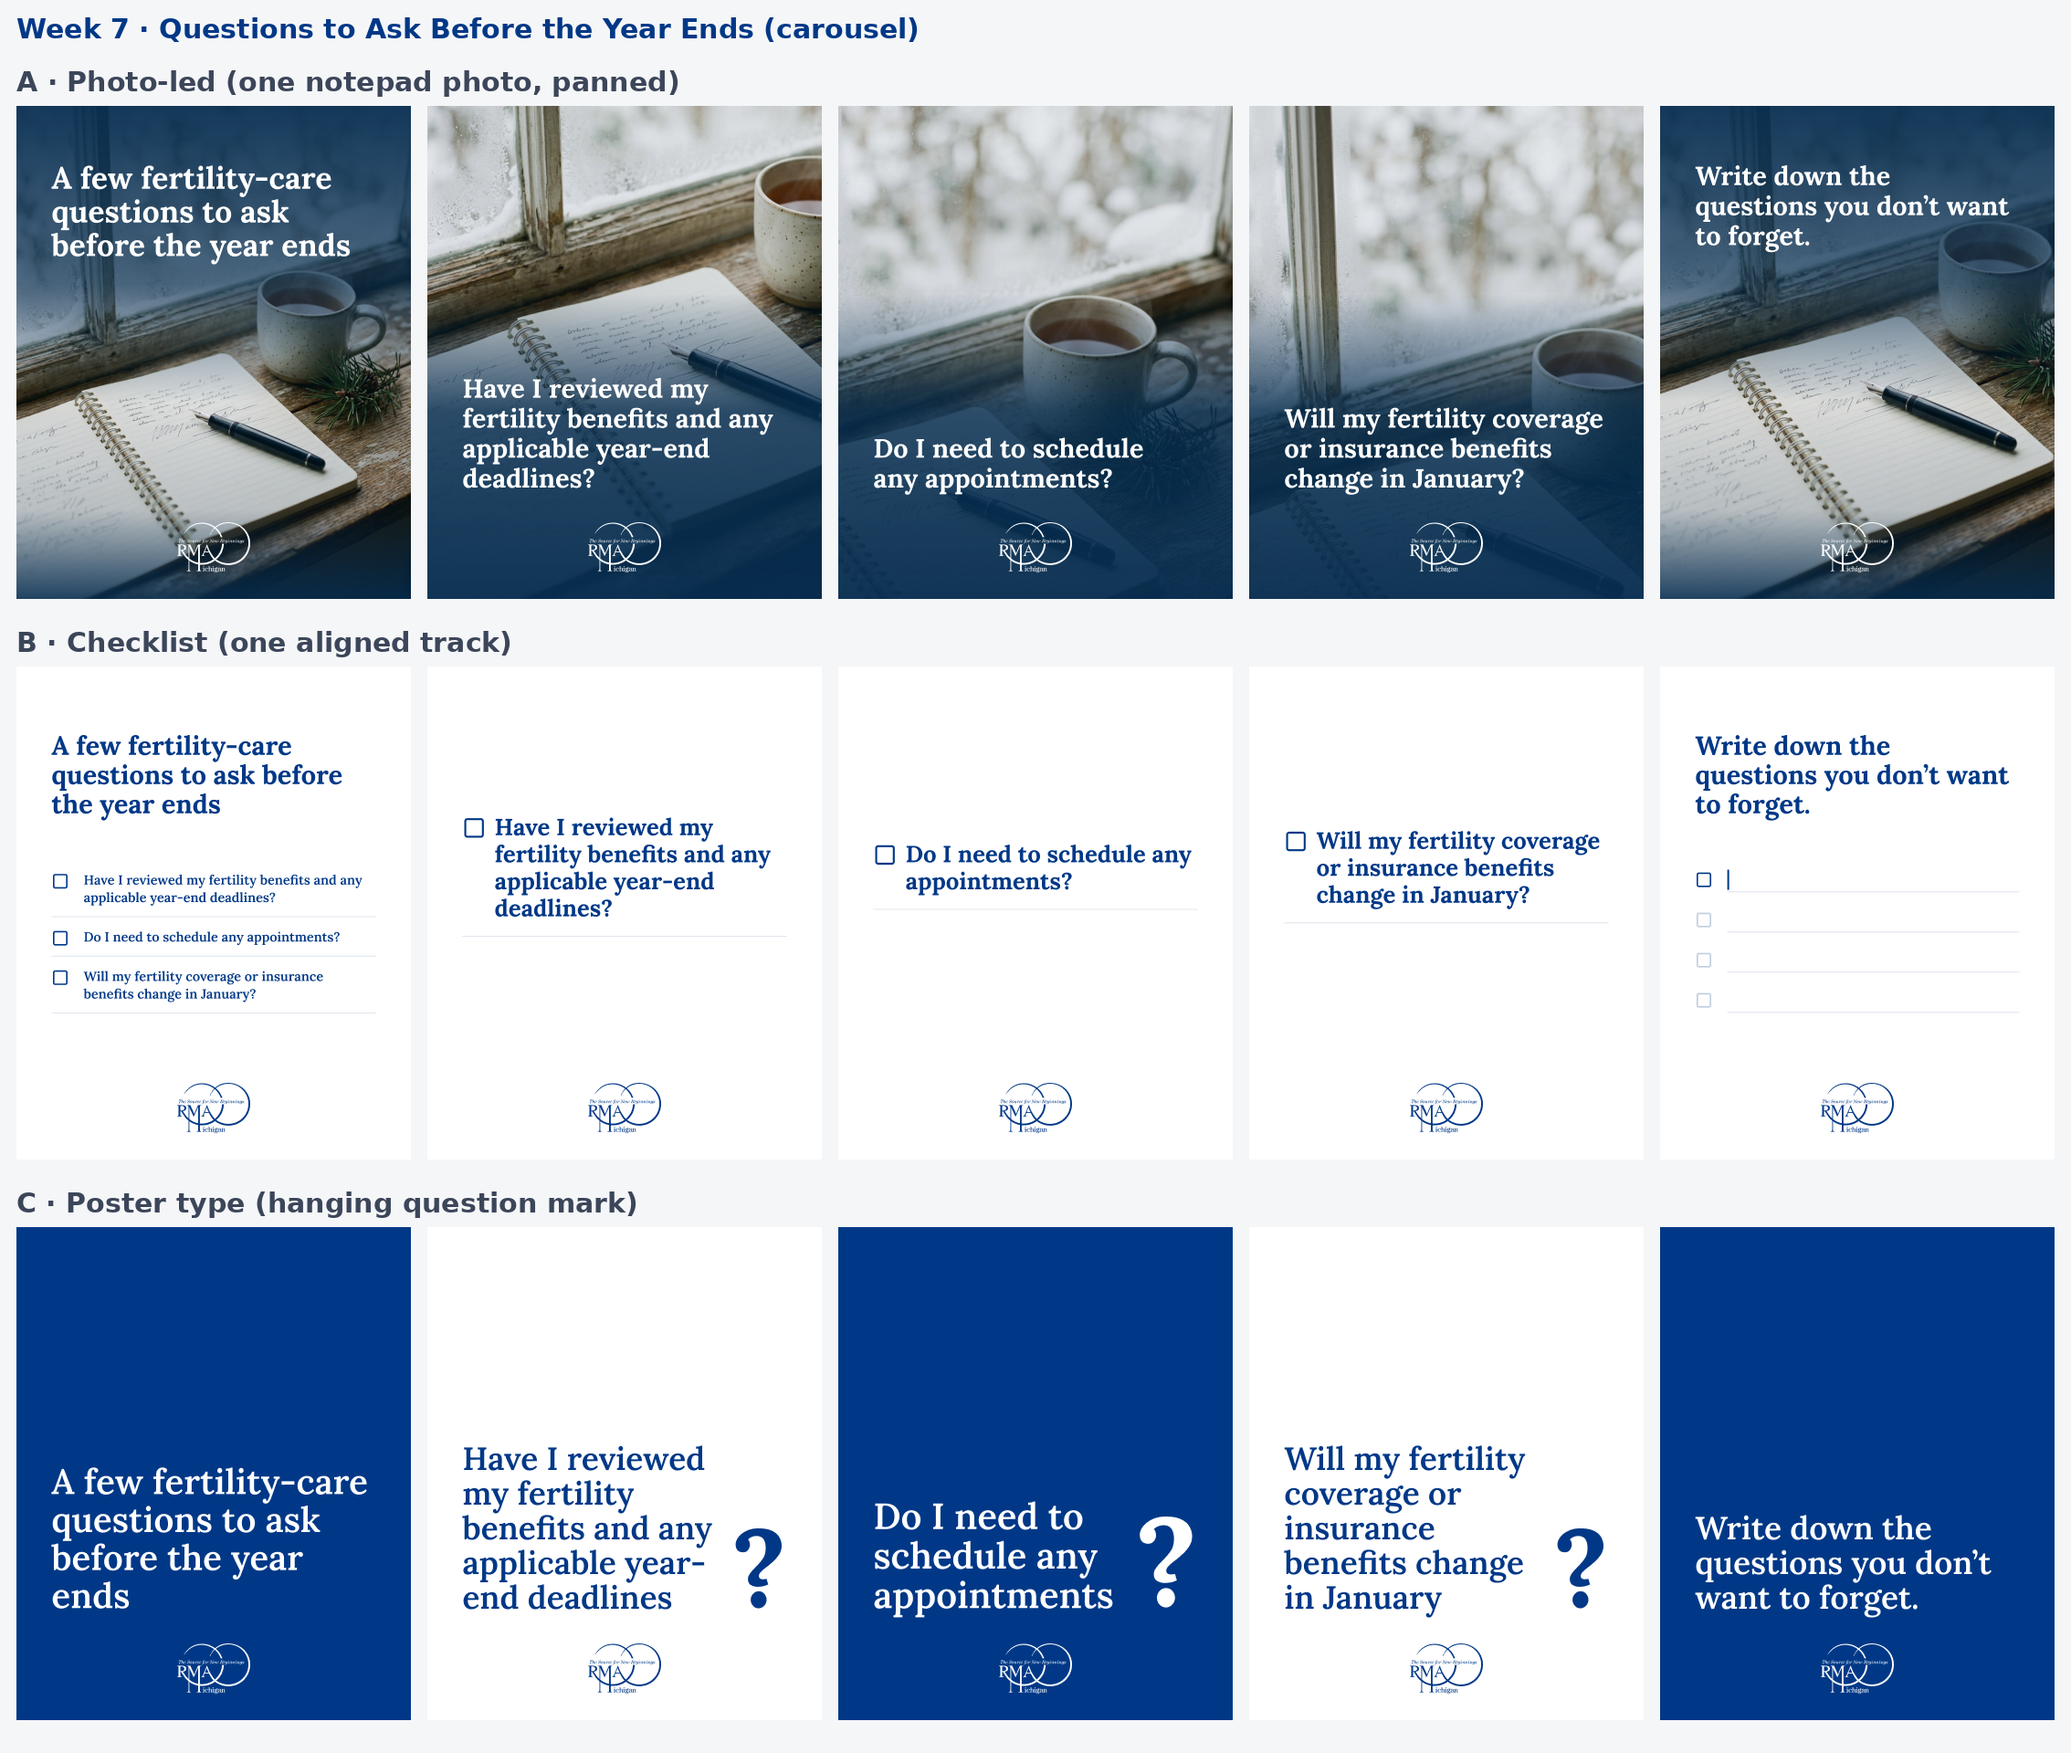
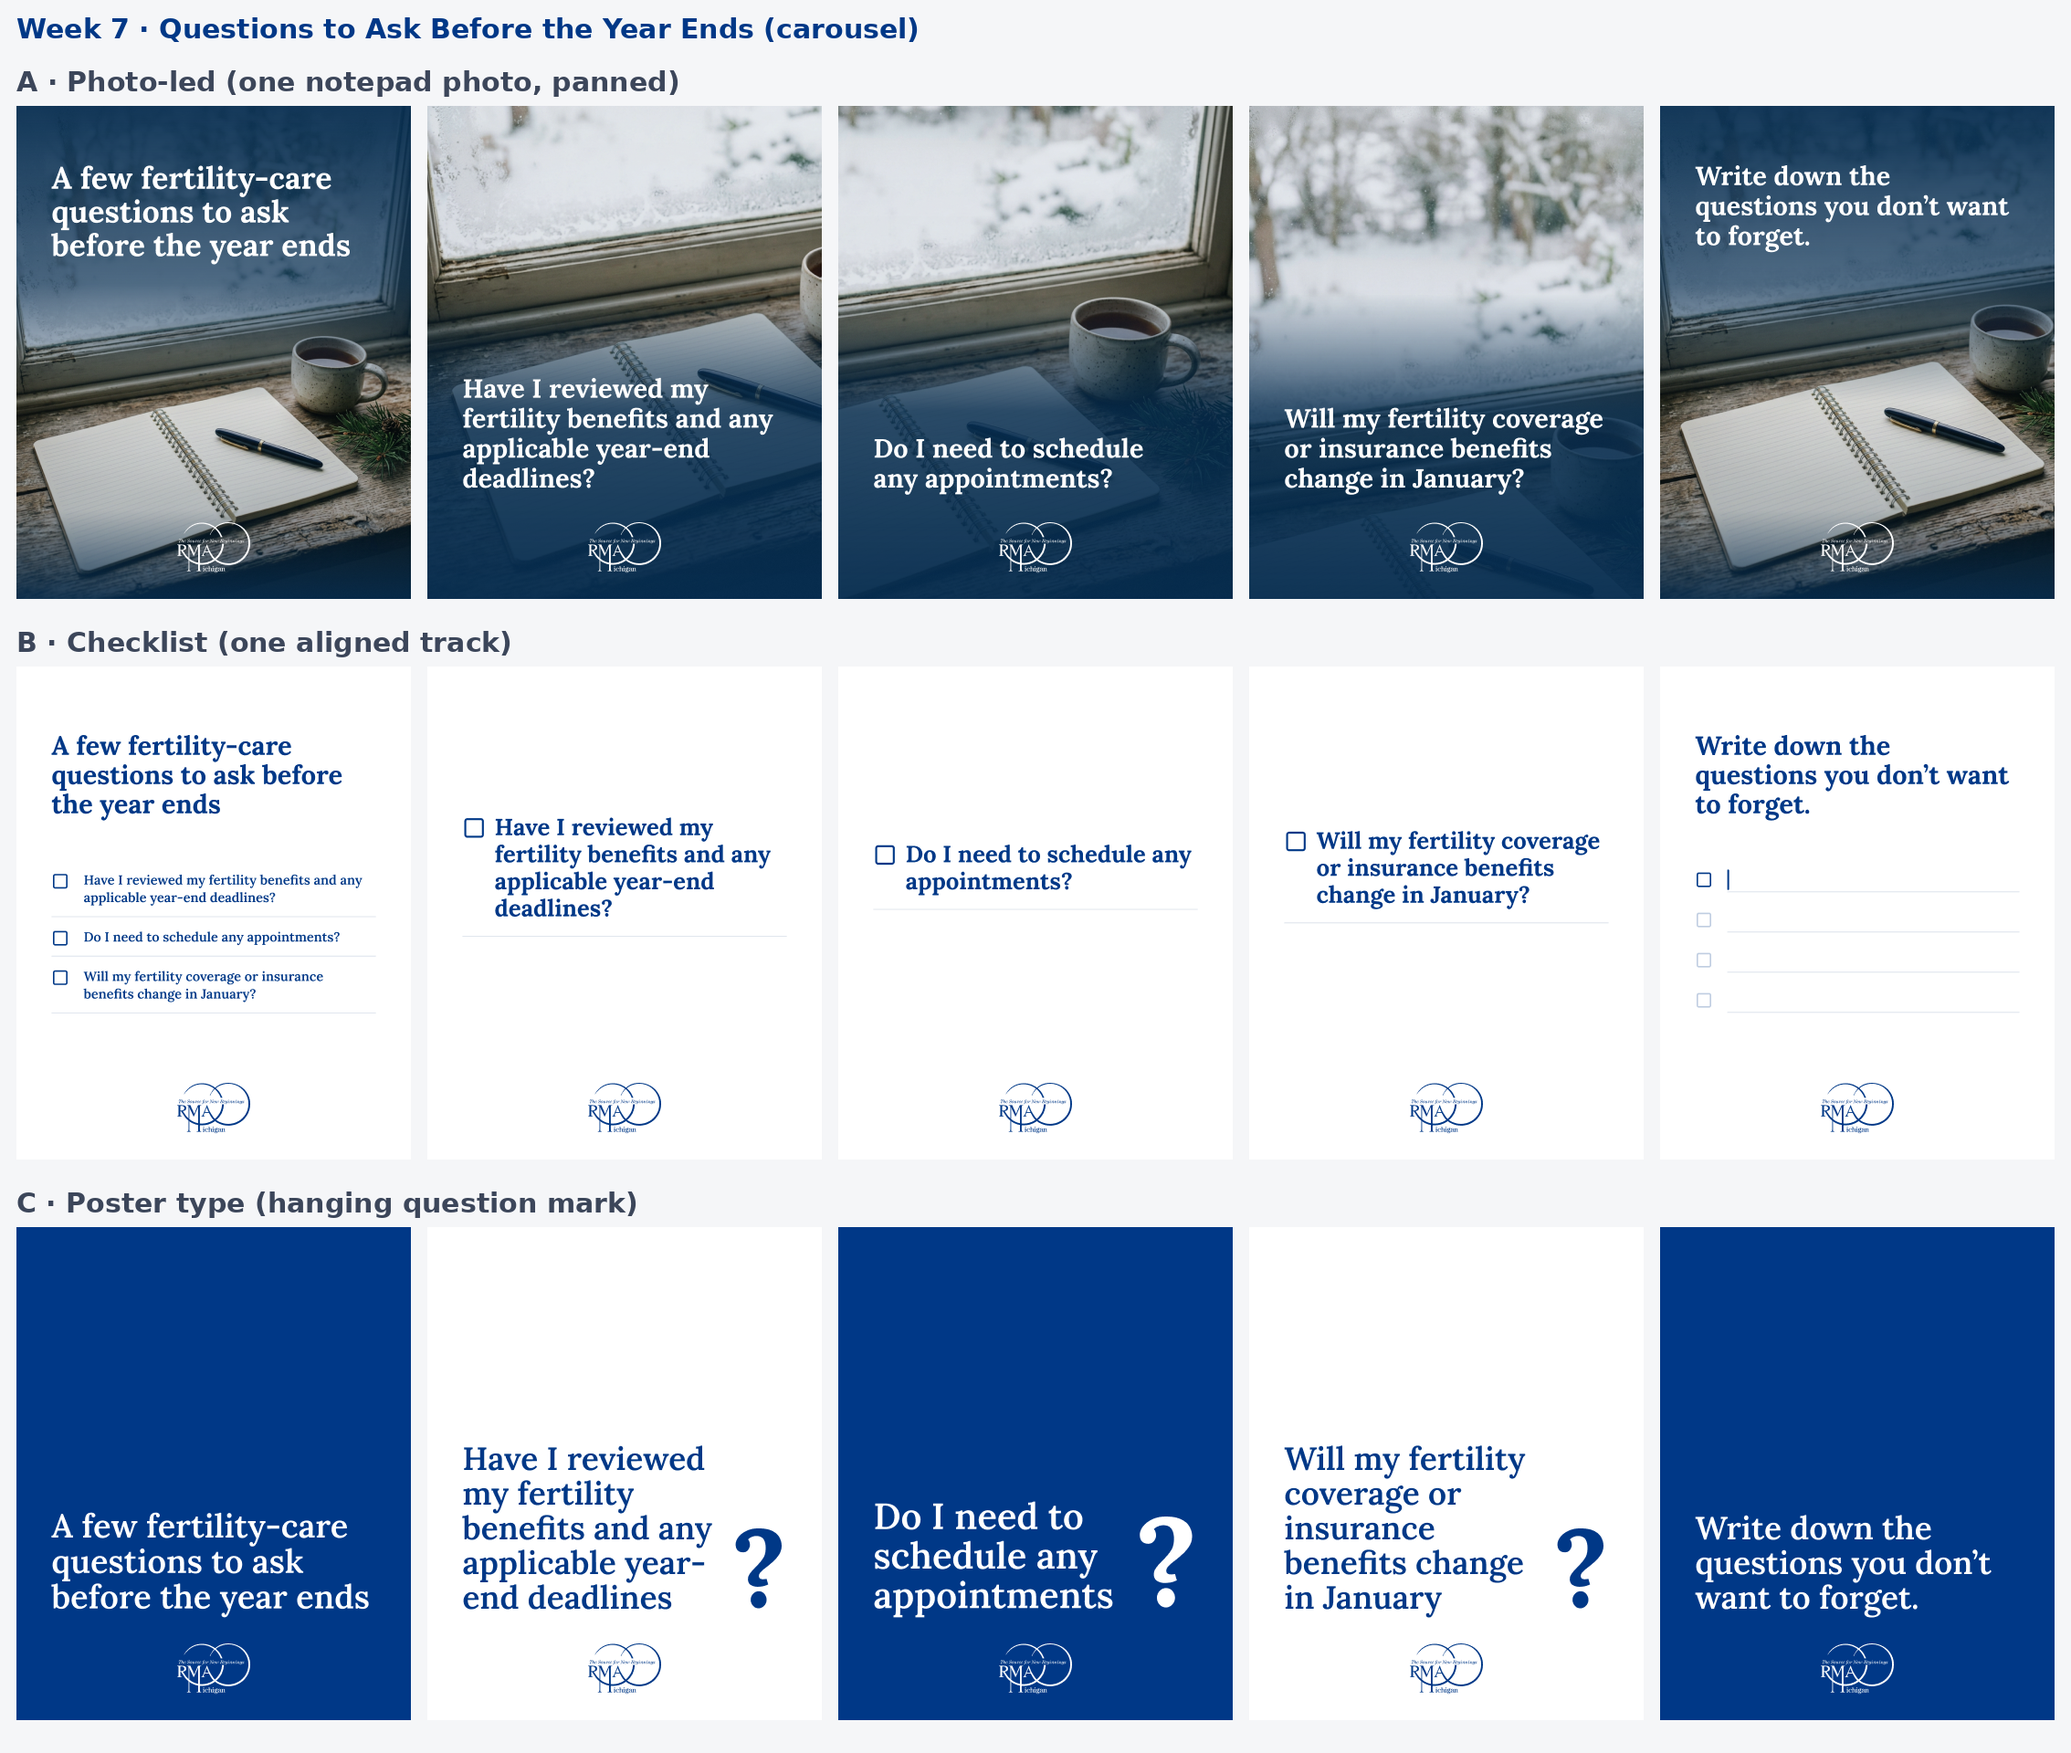
December batch: final review fixes and refreshed previews
Myth B strikes the whole myth; calendar dots and ring ornaments removed
(snowflakes instead); notepad photo regenerated without pseudo-handwriting;
Taylor S. crops matched to colleagues; placeholder hours fully bracketed;
New Year calendar inside the bottom line; added-copy and team-title flags.

Claude-Session: https://claude.ai/code/session_016yKrfT8RQFRJPW8Btr4Q9U

Changed region(s): [[0.0, 0.0625, 1.0, 0.3438], [0.0309, 0.8438, 0.1852, 0.9375], [0.5247, 0.25, 0.5556, 0.2812]]

diff --git a/rma-michigan-social/handoff-dec-batch.md b/rma-michigan-social/handoff-dec-batch.md
@@ -71,27 +71,27 @@ Each version was checked separately on its render:
 | Ask · B | Components: consistent card, distinguished by material. Holds. | The card header continues the November series (it is the note's own header, not an eyebrow). The chips are 5 items, one over the 4-item chunking guide. | No change. The chips are flagged below. |
 | Ask · C | Contrast and single focus hold. | The added series label was an eyebrow. | Label removed. The question leads and "No." dominates. |
 | **Week 7 (checked before building, then on the render)** | | | |
-| Questions · A | Above the fold: the slides should feel continuous, not like separate blocks. | Holds. Text sits on the dark part of each fade. | Built as one notepad photo (AI) panned across the carousel, so each slide continues the last. |
+| Questions · A | Above the fold: the slides should feel continuous, not like separate blocks. | Viewed at full size, the first notepad photo showed AI pseudo-handwriting (gibberish "writing"). | Regenerated with blank pages, then panned across the carousel so each slide continues the last. |
 | Questions · B | Grid: "great" means elements of different sizes share one left track. | Holds. One track for the box column and the text column; slide 5's cursor invites the reader to write. | Built on the shared track. Empty Lucide squares, no ticks, because these are questions to answer. |
 | Questions · C | Grid: the hanging glyph has to align to a track. | First render failed: the enlarged inline "?" collided with the line above, "appointments" split mid-word, and the cover left "ends" alone. | The "?" is now a hanging glyph in its own right-hand column, aligned to the last line. Text resized so every line breaks between words. |
 | Embryology · A | Layout: a full-bleed photo plus a portrait row is fine if the row belongs to the grid. | The first AI lab photo showed brand-like lettering on the microscope. The headline left "see." alone on its last line. | Regenerated an unbranded lab photo (hands only). Headline set in three phrases. The real team sits in a portrait row on the margin grid. |
 | Embryology · B | Section layouts: a headshot grid is a template. | A full-width strip of six tall portraits has its own structure. The names were crowding each other. | Names centred under each column. |
 | Embryology · C | Conventional order (title, body, CTA). | Reversed order on purpose: the credits come first and the statement is the payoff. The credit titles were too small for a phone. | Titles enlarged to 28 px at 85% white. Centred alignment is deliberate here, as end-credits convention. |
 | Myth · A | Section layouts: a diagram passes only if a concept drives it. | Squint test holds: one path on the cover becomes four options, and each slide lights the options it names. | Built as is. Option names are the copy's own words (medication, ovulation induction, IUI, IVF). |
-| Myth · B | Typographic play: a single-word strike is slop unless it varies on two dimensions. | The struck "always" varies in strike, tone and weight together. "Not necessarily." answers it at poster size. | Built as is. Structurally unlike the Week 6 Ask a Physician note card, which covers the same subject. |
+| Myth · B | Typographic play: a single-word strike is slop unless it varies on two dimensions. | Final review: striking only "always" left "Fertility treatment means IVF." still readable, which is the single-right-treatment implication the brief warns against. | The **whole myth** is struck out at 60%, and "Not necessarily." answers it on slide 2. Structurally unlike the Week 6 Ask a Physician note card. |
 | Myth · C | Layout. | The narrow text column next to the photo strip left "start." alone on the closing slide. | Closing body widened to two balanced lines. The room photo is AI, with no people. |
 | **Week 8** | | | |
 | Holiday · A | Contact-form dimension: the slop is a centred stack of identical blocks. | Holds. Text is left-aligned and split top and bottom around the photo's focal point. | Built with a seasonal still life (AI) with no people, so no AI people stand in for RMA's real team. |
 | Holiday · B | Same dimension: the grid should be the design tool. | The headline left "Little" alone on a line. | Asymmetric two-column grid (headline left, wish and sign-off right) under a dashed slot ready for RMA's real team photo. |
-| Holiday · C | Positioning: "great" uses position as a design tool. | Holds. The logo's two rings hang as ornaments, the only decoration, and they come from the brand mark. | Built as is. Text bottom-left, ornaments top-right. |
-| Office hours · A | Contact-form dimension: rows need a grid, not a centred stack. | Holds. A two-column timetable with ruled rows. | Placeholder rows marked in brackets at 55%. |
+| Holiday · C | Positioning: "great" uses position as a design tool. | Final review: the ring ornaments were decorative circles, which you've asked me to avoid before. | Replaced with two hanging Lucide snowflakes, the only seasonal element. Text bottom-left, ornaments top-right. |
+| Office hours · A | Contact-form dimension: rows need a grid, not a centred stack. | Holds. A two-column timetable with ruled rows. The "Closed" rows weren't bracketed, so they read as real hours. | Every placeholder is bracketed, including "[Closed]", in all three versions. |
 | Office hours · B | Title / body / CTA order. | Holds. A physical door sign gives the stack a real-world reason. | Built as is. |
 | Office hours · C | Contact-form dimension. | The placeholder table was too small for a phone. | Enlarged to 36 px, offset right against the poster title. |
 | Year of Questions · A | Section layouts: numbered slides risk being a template. | Holds. Numbering is allowed because the brief's "three things" is a real sequence. Lists stay as the brief's lists. | Built as is. |
 | Year of Questions · B | Side-tab accent: an open accordion row must not use a coloured edge. | Holds. The open row is a tinted panel with no side border. The closing slide adds "Still Have Questions?" as the open fourth row. | Built as is. |
 | Year of Questions · C | Contrast: small list text has to stay legible. | Holds. Lists are white or ink at 32 px, anchored to the bottom line. | Built as is. |
 | **Week 9** | | | |
-| Carr · A | Footer / final impression: end on a strong anchor. | The date is an object (a calendar page) closing the frame, not a label above the headline. The fact line left "States." alone. | Fact line widened to two lines. The calendar page sits bottom-right as the final anchor. |
+| Carr · A | Footer / final impression: end on a strong anchor. | The date is an object (a calendar page) closing the frame, not a label above the headline. The fact line left "States." alone, and two binding dots sat on top of the page. | Fact line widened to two lines. The dots are removed (no decorative circles). The calendar page sits bottom-right as the final anchor. |
 | Carr · B | Alignments: the slop is a centred column. | Holds. The fact leads top-left and the date closes bottom-right under a rule, so the alignment creates tension. | Built as is. |
 | Carr · C | Same. | The date at poster size ran past the right margin. | Date resized to stay inside the 96 px margin. It still closes the frame, after the sentence. |
 | New Year · A | Layout. | Holds. A snowy path bending out of view (AI, no people) carries "not figured out yet". | Built as is. |
@@ -194,7 +194,15 @@ read.
 10. **IVF Myth and Ask a Physician** both make the "IVF isn't the only option" point, and A Year of Questions slide 4 repeats it. Each uses a different structure so they don't read as reruns. Consider spacing them apart in the calendar.
 11. **Holiday office hours** carry bracketed placeholder rows. Replace them with RMA's confirmed hours before publishing. Per the brief, the graphic does not point patients to the portal for urgent issues.
 12. **Holiday Cheer B** has a dashed slot for a real team or office photo. If RMA can't send one, A or C is the brief's branded fallback.
-13. **Elizabeth Carr** is type-led, with no likeness or photo of her, and no added facts. "1981" stays in the caption, as briefed.
+13. **Copy that isn't the brief's graphic text** (remove any of these if only graphic text should appear):
+    - New Year B: "January 2027", the weekday letters and the day numbers.
+    - IVF Myth A: the option chips on slides 1–2 and the "Evaluation" label (the options are words from the copy).
+    - Questions B: the cover's list of the three questions (repeated from slides 2–4).
+    - A Year of Questions A: the "1 2 3" on the cover.
+    - Nurses B: "RN, IVF Nurse" (from rmami.com).
+    - Embryology: names and titles (from rmami.com).
+13a. **Embryology team:** only Meredith (Senior Embryologist) and Courtney K. (Embryologist) have "Embryologist" in their titles. The others are laboratory supervisor and technologists. RMA should confirm all six belong under "Meet the embryology team."
+13b. **Elizabeth Carr** is type-led, with no likeness or photo of her, and no added facts. "1981" stays in the caption, as briefed.
 14. **Still on hold or waiting on RMA:**
     - Giving Tuesday (resource choice).
     - Universal Health Coverage Day (direction).
